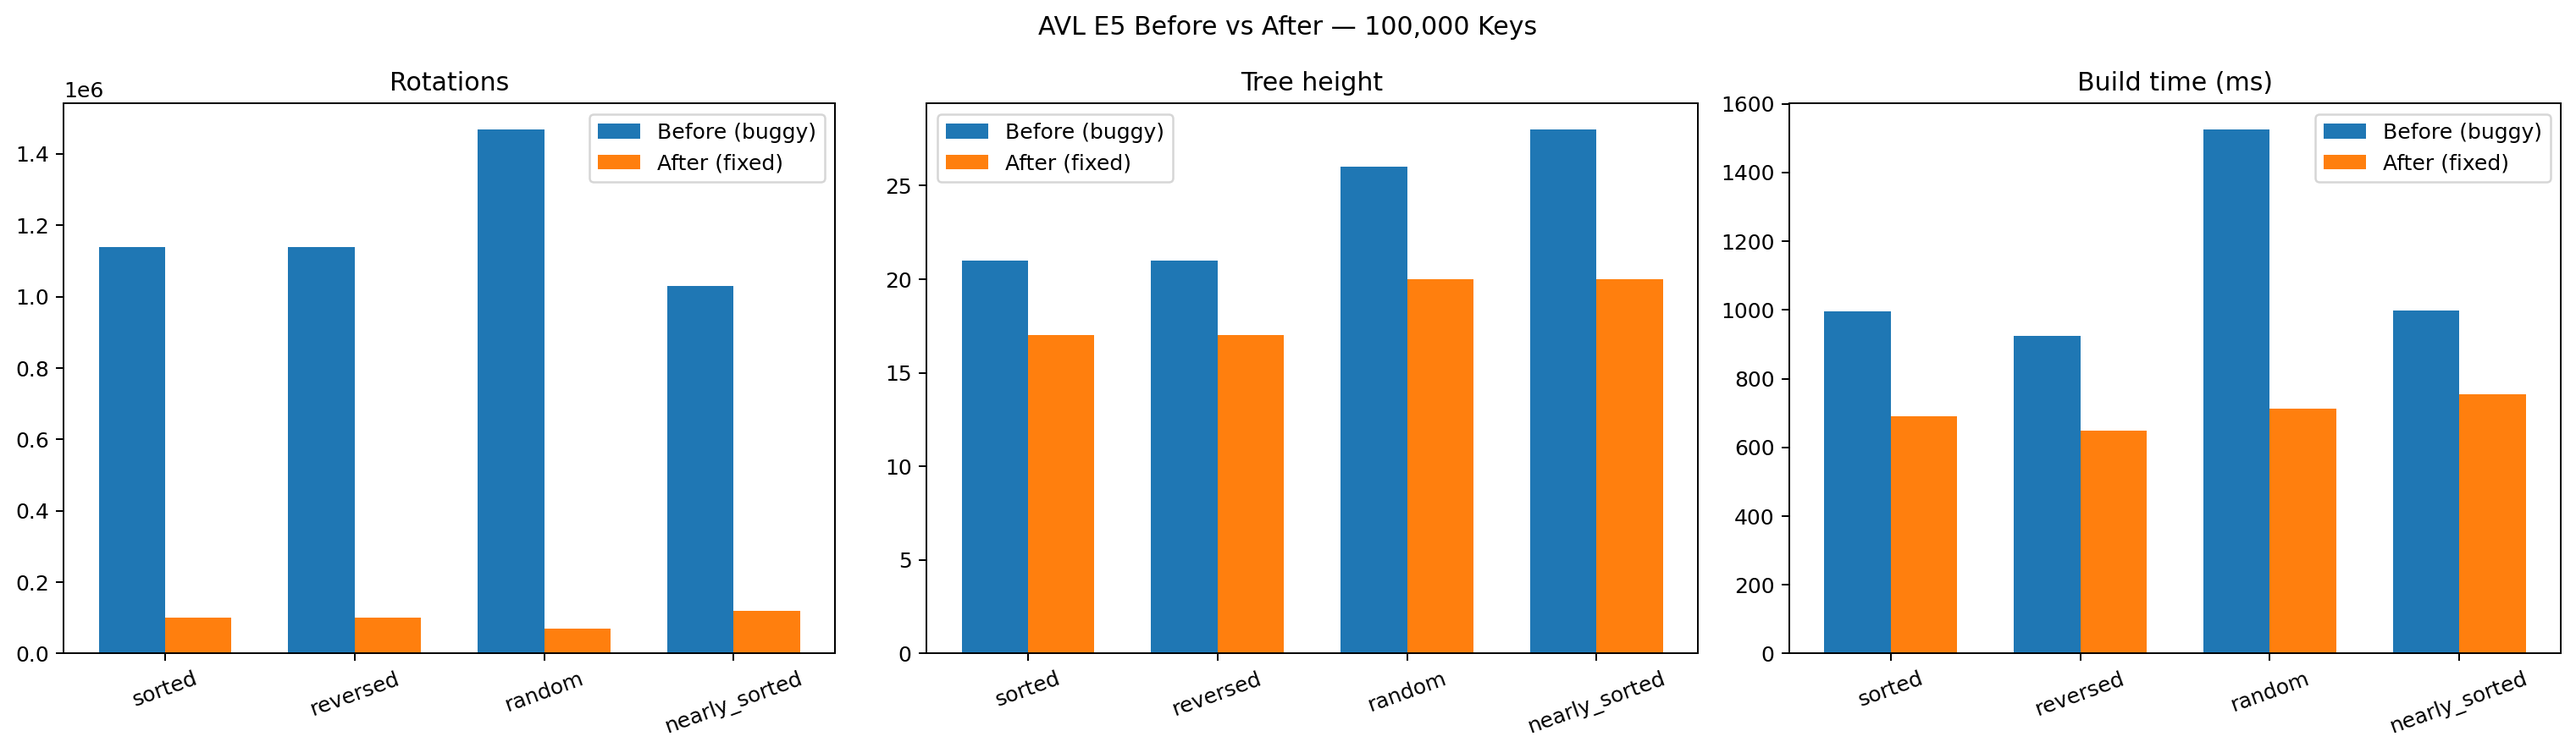
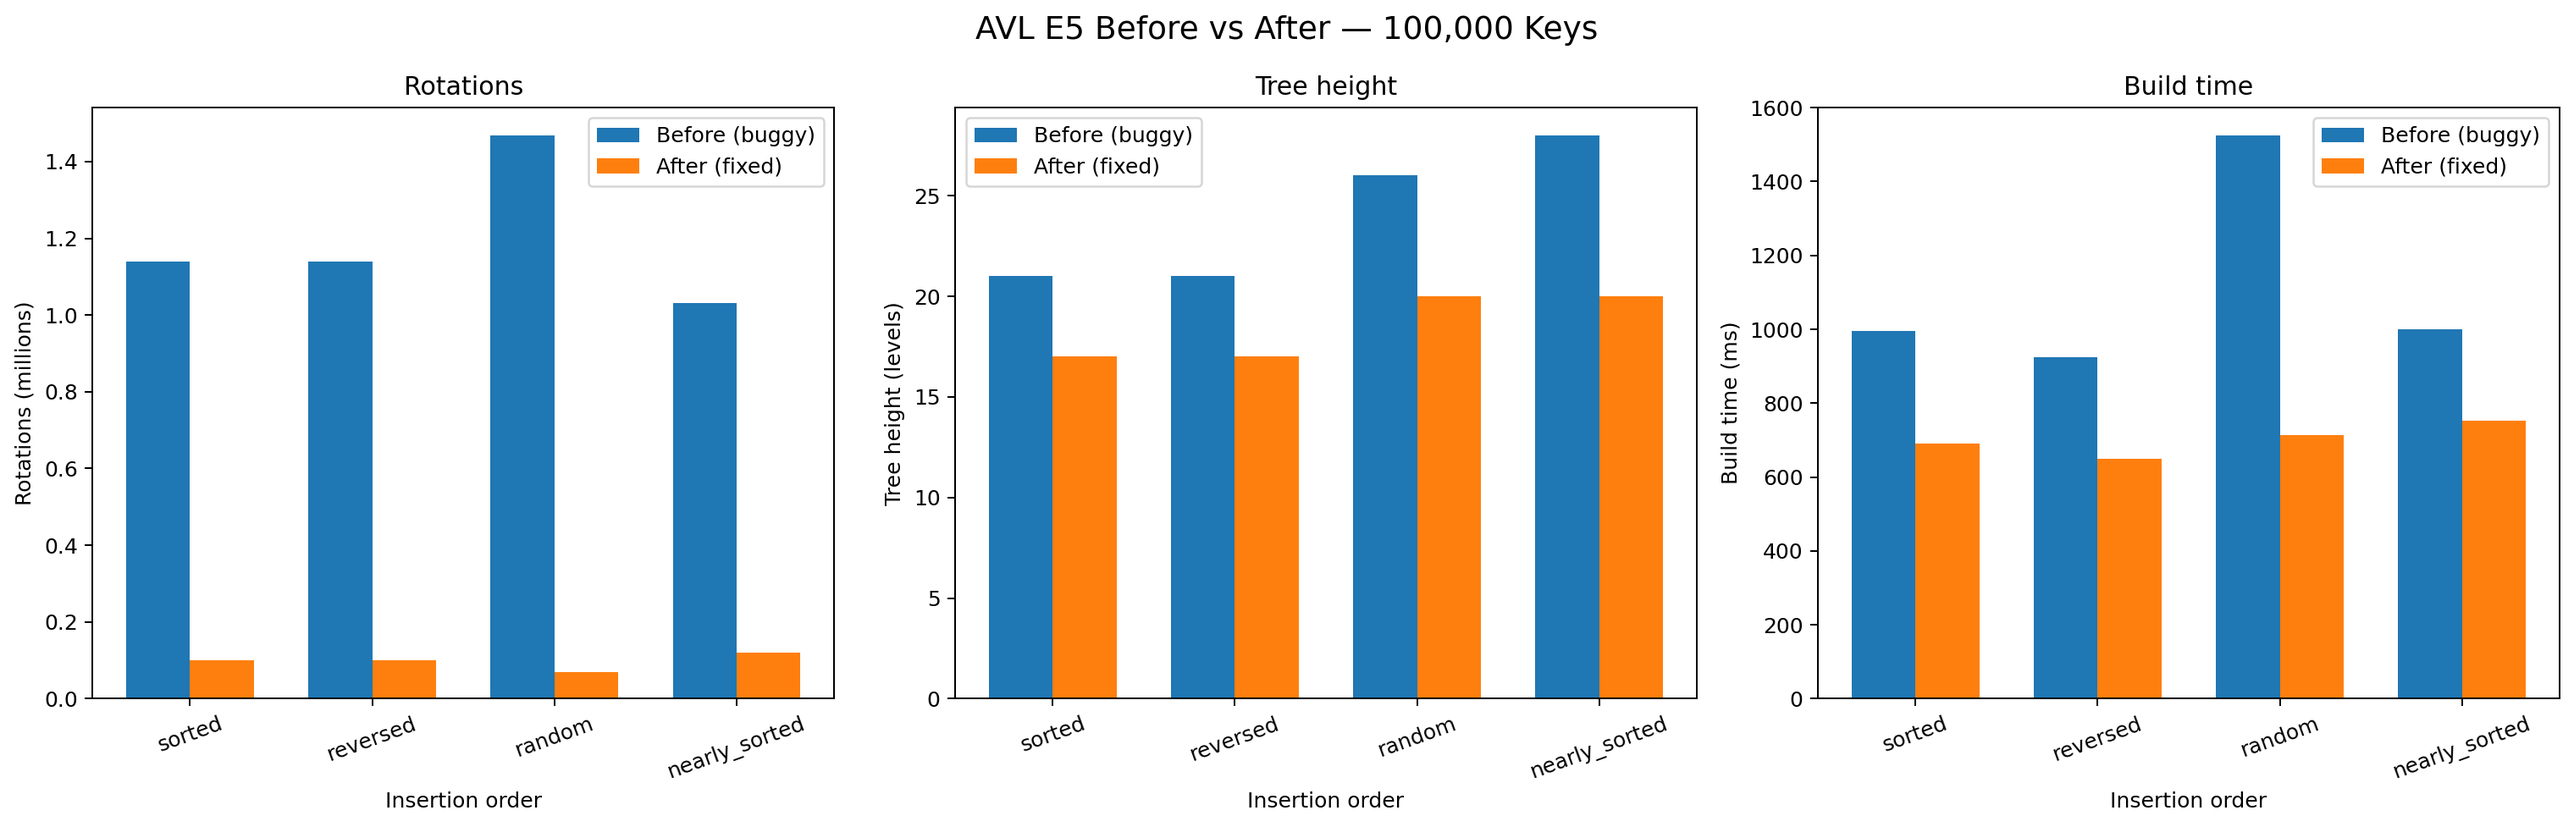
Improve AVL performance figure axis labels

diff --git a/incident_reports/plot_avl.py b/incident_reports/plot_avl.py
@@ -1,13 +1,16 @@
+
 import csv
 from collections import defaultdict
 from pathlib import Path
 from statistics import median
 
 import matplotlib.pyplot as plt
+from matplotlib.ticker import FuncFormatter
 
 BEFORE = Path("incident_reports/evidence/INC-01-before.csv")
 AFTER = Path("results/timings.csv")
 OUTPUT = Path("incident_reports/figures/INC-01-performance.png")
+
 
 def load_data(path, version):
     groups = defaultdict(list)
@@ -43,21 +46,22 @@ def load_data(path, version):
         for key, rows in groups.items()
     }
 
+
 before = load_data(BEFORE, "unknown")
 after = load_data(AFTER, "b36e595")
 
 orders = ["sorted", "reversed", "random", "nearly_sorted"]
 n = 100000
 
-fig, axes = plt.subplots(1, 3, figsize=(17, 5))
+fig, axes = plt.subplots(1, 3, figsize=(17, 5.5))
 
 metrics = [
-    ("rotations", "Rotations"),
-    ("height", "Tree height"),
-    ("time_ms", "Build time (ms)"),
+    ("rotations", "Rotations", "Rotations (millions)"),
+    ("height", "Tree height", "Tree height (levels)"),
+    ("time_ms", "Build time", "Build time (ms)"),
 ]
 
-for ax, (metric, title) in zip(axes, metrics):
+for ax, (metric, title, ylabel) in zip(axes, metrics):
     x = range(len(orders))
     width = 0.35
 
@@ -70,6 +74,7 @@ for ax, (metric, title) in zip(axes, metrics):
         width,
         label="Before (buggy)"
     )
+
     ax.bar(
         [i + width / 2 for i in x],
         new,
@@ -79,14 +84,40 @@ for ax, (metric, title) in zip(axes, metrics):
 
     ax.set_xticks(list(x))
     ax.set_xticklabels(orders, rotation=20)
+
+    # Required axis labels and units
+    ax.set_xlabel("Insertion order")
+    ax.set_ylabel(ylabel)
+
     ax.set_title(title)
+
+    # Display rotations in millions
+    if metric == "rotations":
+        ax.yaxis.set_major_formatter(
+            FuncFormatter(
+                lambda value, pos: f"{value / 1_000_000:.1f}"
+            )
+        )
+        ax.yaxis.offsetText.set_visible(False)
+
     ax.legend()
 
-fig.suptitle("AVL E5 Before vs After — 100,000 Keys")
+fig.suptitle(
+    "AVL E5 Before vs After — 100,000 Keys",
+    fontsize=15
+)
+
 fig.tight_layout()
 
 OUTPUT.parent.mkdir(parents=True, exist_ok=True)
-fig.savefig(OUTPUT, dpi=180, bbox_inches="tight")
+
+fig.savefig(
+    OUTPUT,
+    dpi=180,
+    bbox_inches="tight"
+)
+
+plt.close(fig)
 
 print("Saved:", OUTPUT)
 
